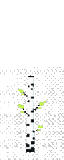
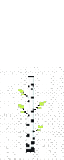
editor v0.6 / game v1.15.7: road intersection & turn衔接 + 三棵树贴图灰白噪点清洗
柏油路按邻居断开路缘/车道线实现相交转弯自然衔接；枫树/棕榈/白桦重洗去除半透明灰雾、保留主体。

diff --git a/static/lixin/play/index.html b/static/lixin/play/index.html
@@ -838,6 +838,17 @@ function applyMapData(md){
   if(Array.isArray(md.buildings)) BUILDINGS=md.buildings;
   if(Array.isArray(md.lamps)) lamps=md.lamps.map(l=>({x:l.x*TILE+TILE/2,y:l.y*TILE+TILE/2,big:!!l.big}));
 }
+/* v0.6：柏油路相交/转弯衔接——预构建 roadGrid（布尔格阵），绘制时按四周邻居决定是否断开路缘/车道线 */
+let roadGrid=null;
+function buildRoadGrid(){
+  roadGrid=[]; for(let y=0;y<ROWS;y++) roadGrid.push(new Array(COLS).fill(false));
+  for(const p of PATHS){ if(p.type!=='road') continue;
+    for(let yy=p.y;yy<p.y+p.h;yy++) for(let xx=p.x;xx<p.x+p.w;xx++)
+      if(yy>=0&&yy<ROWS&&xx>=0&&xx<COLS) roadGrid[yy][xx]=true; }
+  for(const k in OVERRIDES){ const v=OVERRIDES[k]; if(v&&v.t==='road'){ const sp=k.split(','); const xx=+sp[0], yy=+sp[1];
+    if(yy>=0&&yy<ROWS&&xx>=0&&xx<COLS) roadGrid[yy][xx]=true; } }
+}
+function roadAt(x,y){ return roadGrid && y>=0 && y<ROWS && x>=0 && x<COLS && roadGrid[y][x]; }
 function drawOverrideWater(x,y){
   const px=x*TILE, py=y*TILE;
   ctx.fillStyle='#3f86c4'; ctx.fillRect(px,py,TILE,TILE);
@@ -1664,7 +1675,7 @@ function drawTexTile(type,x,y){
   ctx.fillStyle='rgba(0,0,0,0.12)'; for(let i=0;i<5;i++) ctx.fillRect(px+((x*7+i*13)%28),py+((y*11+i*7)%28),2,2);
   ctx.fillStyle='rgba(255,255,255,0.08)'; for(let i=0;i<5;i++) ctx.fillRect(px+((x*13+i*7)%28),py+((y*7+i*13)%28),2,2);
 }
-/* v1.15.6 / 编辑器 v0.4：透明像素风物件贴图系统
+/* v1.15.7 / 编辑器 v0.6：柏油路相交转弯衔接 + 物件贴图重洗（透明像素风）
    - 支持多格树木（2×5 ~ 4×5）与单格花草装饰
    - obstacle: 'all'=整块不可通行；'trunk'=仅底部树干1~2格；'none'=可穿过
    - file 缺省则走程序化兜底绘制 */
@@ -1906,8 +1917,7 @@ function drawGrassVariant(x,y,variant){
 function drawPathTile(x,y,p){
   const px=x*TILE, py=y*TILE, type=p.type||'path';
   if(type==='road'){
-    const horizontal = p.w>=p.h;
-    // v1.15.2 #5：更真实柏油马路——沥青底 + 细密噪点 +  occasional 井盖
+    // v1.15.2 #5：更真实柏油马路——沥青底 + 细密噪点 + 井盖
     ctx.fillStyle='#2c3036'; ctx.fillRect(px,py,TILE,TILE);
     const hsh=(x*13+y*7)%7;
     const noises=[
@@ -1920,23 +1930,29 @@ function drawPathTile(x,y,p){
       ctx.fillStyle='rgba(90,90,95,.55)'; ctx.beginPath(); ctx.arc(px+16,py+16,6,0,Math.PI*2); ctx.fill();
       ctx.strokeStyle='rgba(60,60,65,.55)'; ctx.lineWidth=1; ctx.beginPath(); ctx.arc(px+16,py+16,4,0,Math.PI*2); ctx.stroke();
     }
-    // 路缘（混凝土人行道）：沿路长方向的两条边
+    // v0.6：相交/转弯衔接——按四周邻居是否也是路来决定路缘与车道线
+    const up=roadAt(x,y-1), down=roadAt(x,y+1), left=roadAt(x-1,y), right=roadAt(x+1,y);
+    const hConn=left||right, vConn=up||down, isCross=hConn&&vConn;
+    // 路缘（混凝土人行道边）：仅当该侧外侧"不是路"时绘制 → 交叉口/转弯处自然断开
     ctx.fillStyle='#6f7378';
-    if(horizontal){ ctx.fillRect(px,py,TILE,3); ctx.fillRect(px,py+TILE-3,TILE,3); }
-    else { ctx.fillRect(px,py,3,TILE); ctx.fillRect(px+TILE-3,py,3,TILE); }
-    // 车道中线（淡黄虚线）
+    if(!up)    ctx.fillRect(px,py,TILE,3);
+    if(!down)  ctx.fillRect(px,py+TILE-3,TILE,3);
+    if(!left)  ctx.fillRect(px,py,3,TILE);
+    if(!right) ctx.fillRect(px+TILE-3,py,3,TILE);
+    // 车道中线（黄色虚线）：仅直行段绘制；交叉口断开避免硬穿
     ctx.strokeStyle='rgba(240,210,90,.8)'; ctx.lineWidth=2; ctx.setLineDash([6,6]);
-    if(horizontal){ if(y===p.y+((p.h/2)|0)){ ctx.beginPath(); ctx.moveTo(px,py+TILE/2); ctx.lineTo(px+TILE,py+TILE/2); ctx.stroke(); } }
-    else { if(x===p.x+((p.w/2)|0)){ ctx.beginPath(); ctx.moveTo(px+TILE/2,py); ctx.lineTo(px+TILE/2,py+TILE); ctx.stroke(); } }
+    if(hConn && !isCross && !up && !down){
+      ctx.beginPath(); ctx.moveTo(px,py+TILE/2); ctx.lineTo(px+TILE,py+TILE/2); ctx.stroke();
+    }
+    if(vConn && !isCross && !left && !right){
+      ctx.beginPath(); ctx.moveTo(px+TILE/2,py); ctx.lineTo(px+TILE/2,py+TILE); ctx.stroke();
+    }
     ctx.setLineDash([]);
-    // v1.15.2 #1 斑马线：白线改为与路面平行（横向路画横向条纹，纵向路画纵向条纹）
+    // 斑马线：路口（inCrossing）画与行车方向平行的白条纹
     if(inCrossing(x,y)){
       ctx.fillStyle='rgba(245,245,245,.82)';
-      if(horizontal){
-        for(let i=0;i<2;i++){ const by=py+5+i*16; ctx.fillRect(px+4,by,TILE-8,8); }
-      }else{
-        for(let i=0;i<2;i++){ const bx=px+5+i*16; ctx.fillRect(bx,py+5,8,TILE-10); }
-      }
+      if(hConn){ for(let i=0;i<2;i++){ const by=py+5+i*16; ctx.fillRect(px+4,by,TILE-8,8); } }
+      else     { for(let i=0;i<2;i++){ const bx=px+5+i*16; ctx.fillRect(bx,py+5,8,TILE-10); } }
     }
     return;
   }
@@ -3387,6 +3403,7 @@ Promise.all([
   if(md&&md.overrides) Object.assign(o,md.overrides);   // map-data.json 的覆盖优先
   if(Object.keys(o).length) OVERRIDES=o;
   ovApply();
+  buildRoadGrid();
 }).catch(()=>{ /* 无编辑器文件则用默认地图，不影响游戏 */ });
 
 /* ---------- 输入 ---------- */

diff --git a/static/lixin/play/tile-editor/CHANGELOG.md b/static/lixin/play/tile-editor/CHANGELOG.md
@@ -4,6 +4,13 @@
 
 ---
 
+## v0.6
+
+- 重洗枫树/棕榈树/白桦贴图灰白噪点：`assets/obj/t_maple.png`、`t_palm.png`、`t_birch.png` 经两轮 Pillow 后处理——先抠边框连通的灰背景层，再清除经半透明缝隙连通到外部的灰雾与内部小面积灰白斑点（连通分量面积判定）。白桦白色树皮等大块浅色主体完整保留，树冠缝隙还原为透明、游戏中不再显灰点。
+- 柏油路相交与转弯图案衔接（游戏 RPG 渲染侧实现）：`drawPathTile` 的 road 分支改为按每格**四周邻居是否也是路**（`roadGrid` 预构建 + `roadAt`）决定——路缘仅在「外侧不是路」时绘制（交叉口/转弯处自然断开，不再画出路缘"墙"），车道中线仅在直行段绘制、交叉口断开避免硬穿；斑马线按行车方向平行绘制。相交与转弯处路面连续自然衔接。
+
+---
+
 ## v0.5
 
 - 新增「📍 检视」工具：
